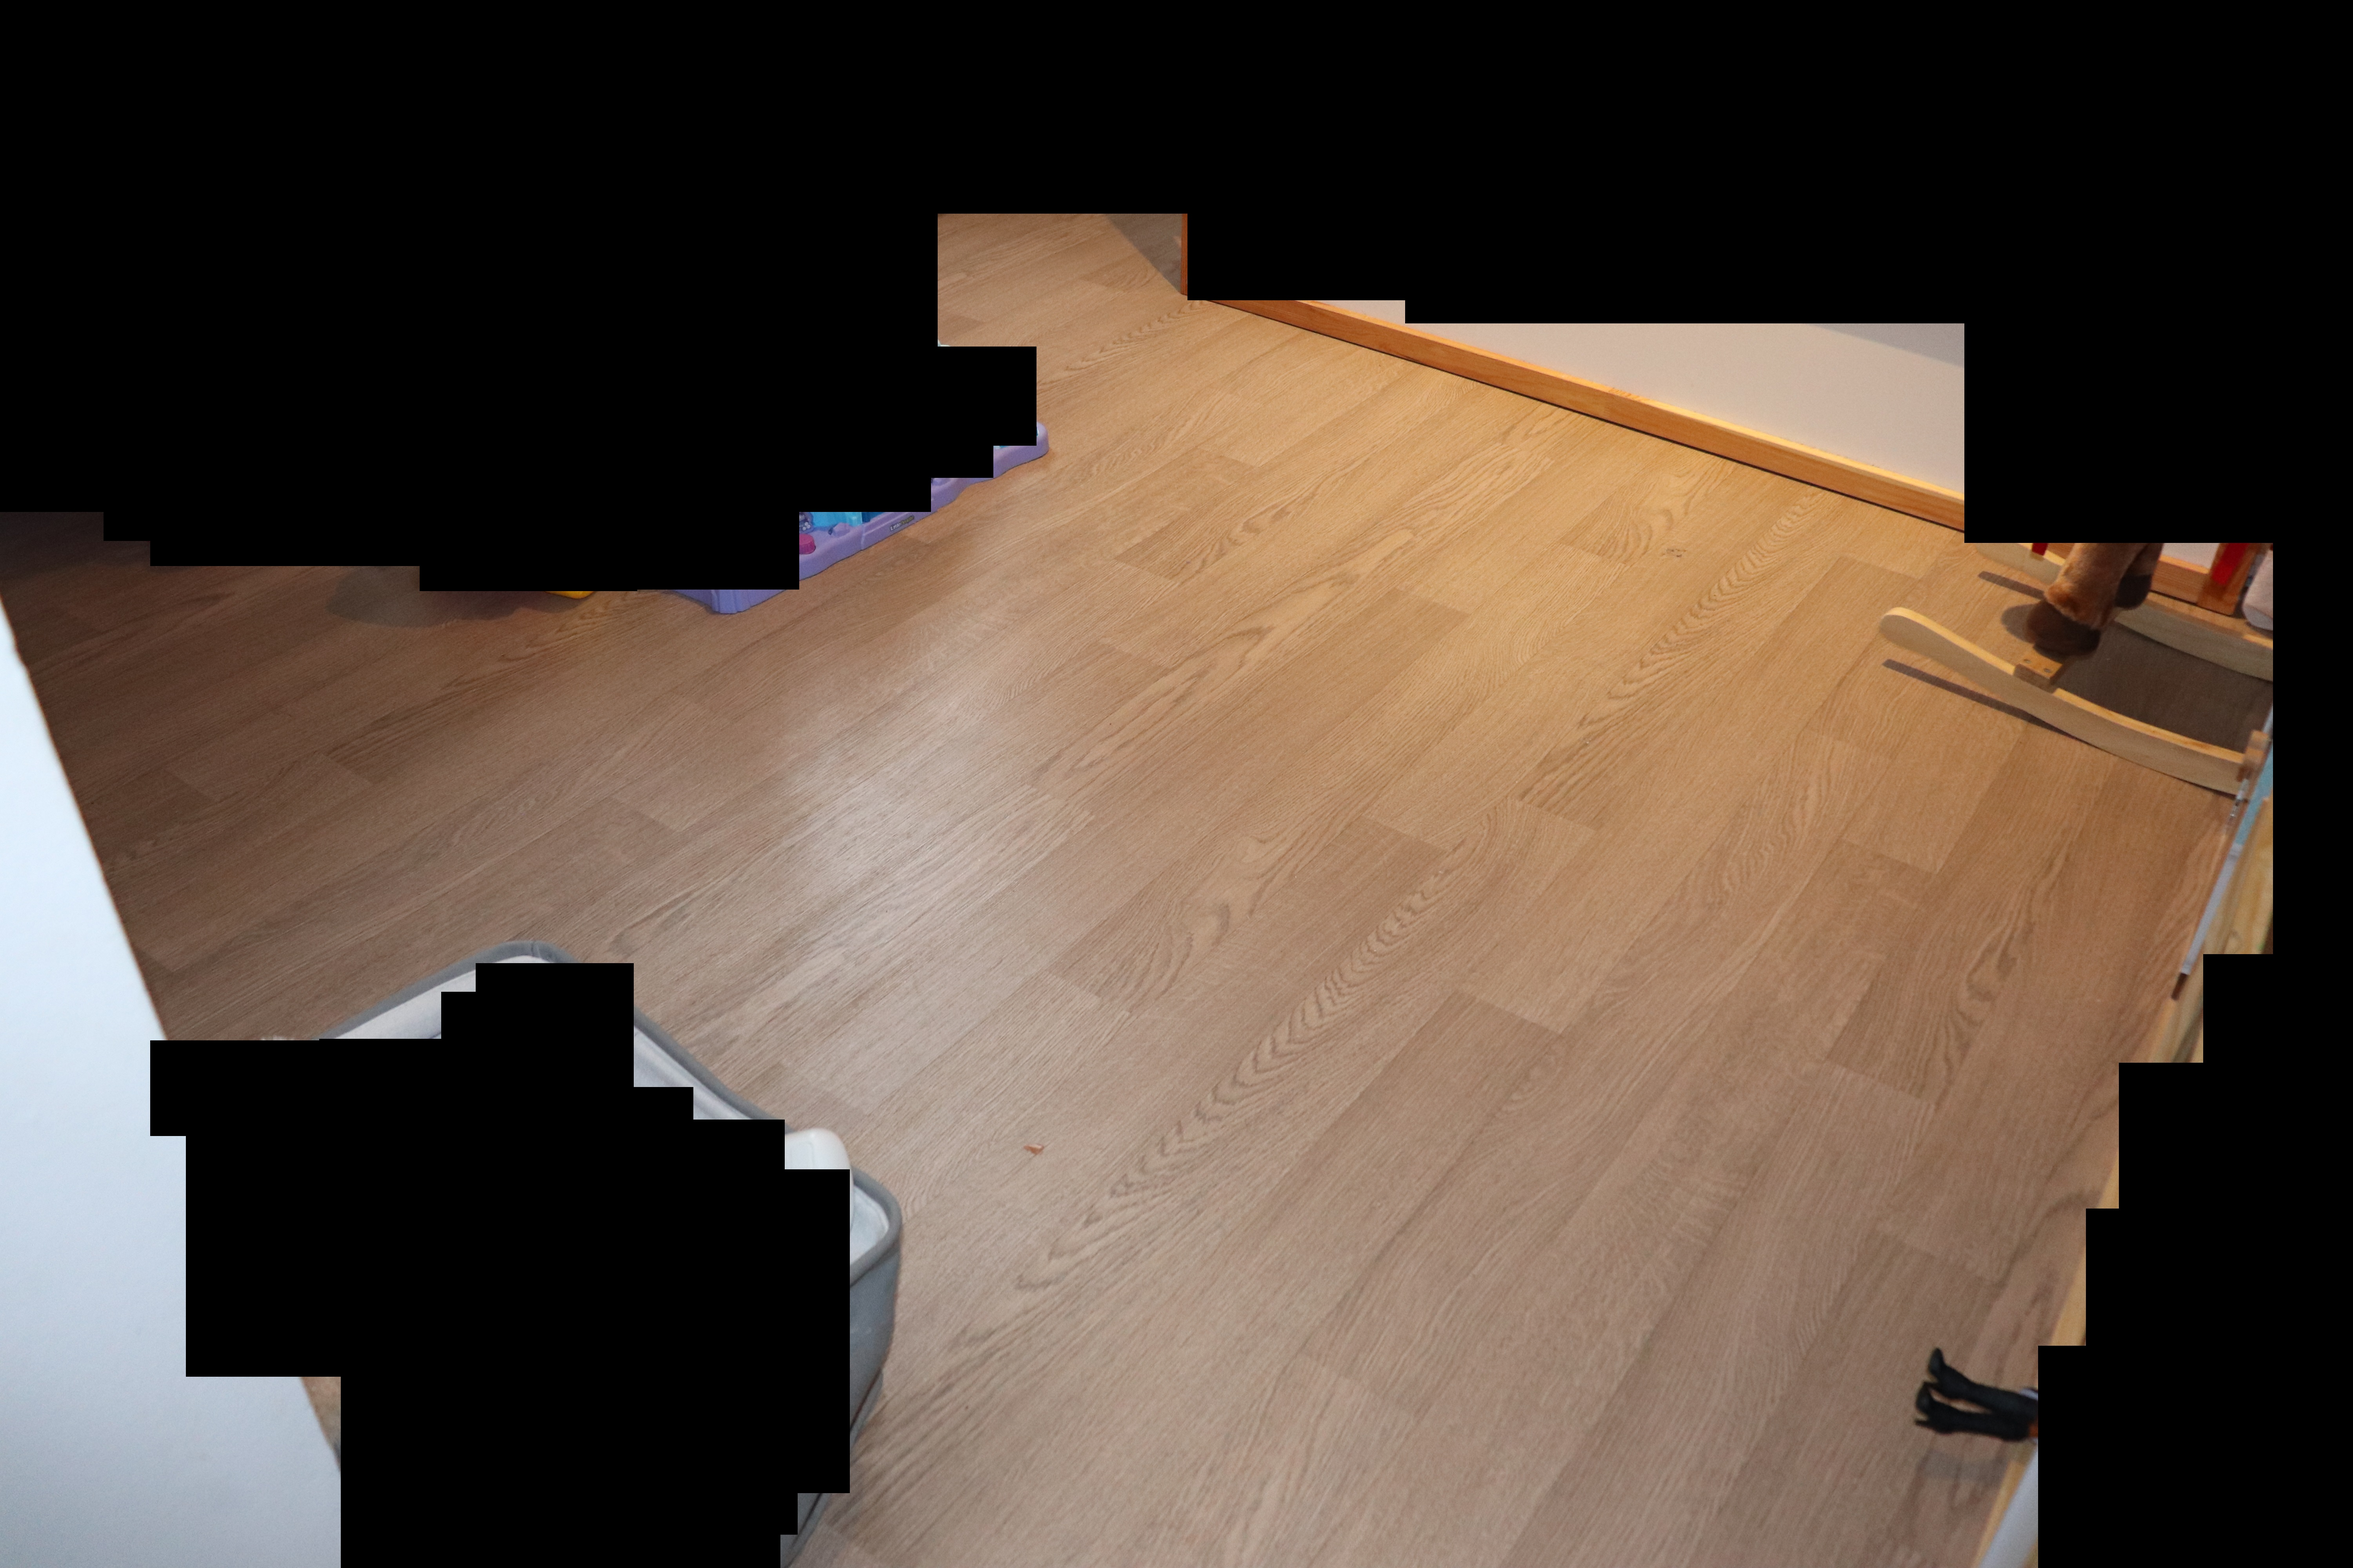
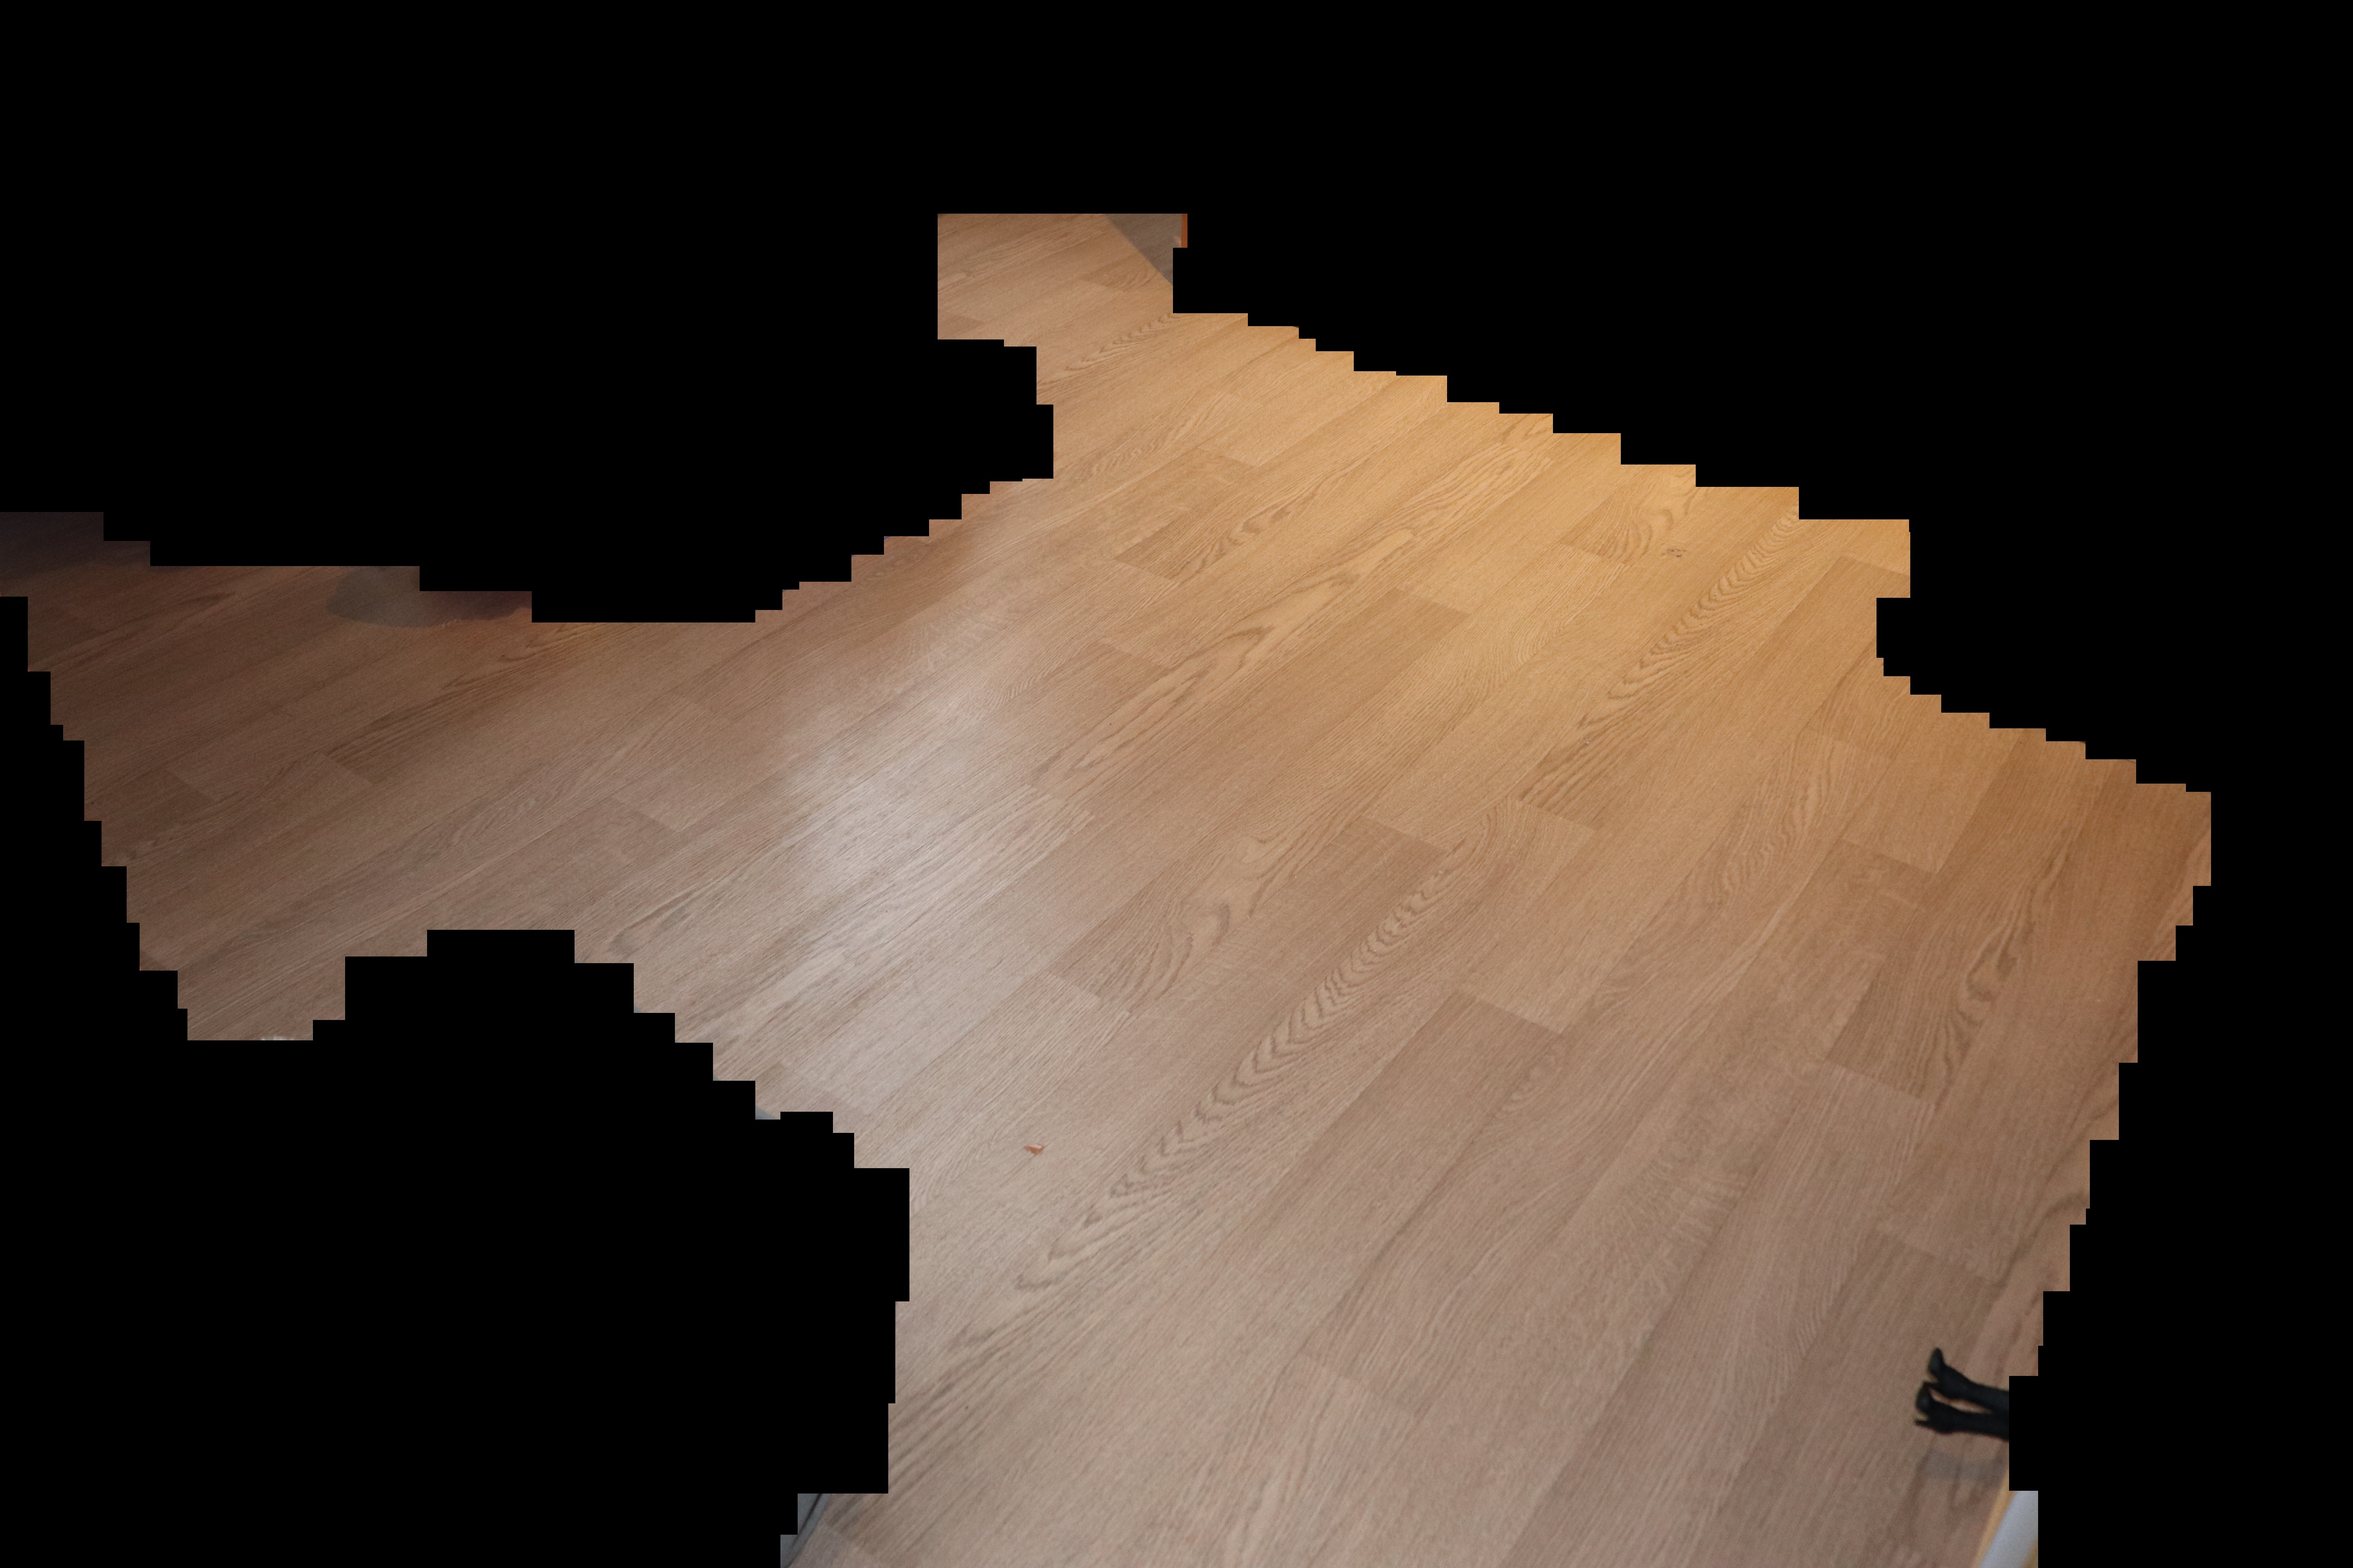
Reworked whole image processing - works well

diff --git a/TP1.py b/TP1.py
@@ -61,7 +61,7 @@ def extr_bb(img_c, image):
     bbs[:, 3] = bbs[:, 1] + bbs[:, 3]
 
     # Filter by size
-    area_th = 5000
+    area_th = 7000
     mask_area = areas > area_th
 
     bbs = bbs[mask_area, :]
@@ -129,8 +129,8 @@ def extr_bb(img_c, image):
 def make_bb(image, reference, mask):
 
     # Image to grayscale
-    img = cv2.cvtColor(image, cv2.COLOR_BGR2GRAY) * mask
-    ref = cv2.cvtColor(reference, cv2.COLOR_BGR2GRAY) * mask
+    img = cv2.cvtColor(image, cv2.COLOR_BGR2GRAY)
+    ref = cv2.cvtColor(reference, cv2.COLOR_BGR2GRAY)
 
     # Find contours
     kernel = np.ones((100, 100), np.float32) / 10000
@@ -138,231 +138,24 @@ def make_bb(image, reference, mask):
     ref_c = cv2.absdiff(ref, cv2.filter2D(ref, -1, kernel))
 
     # Calculate diff
-    diff_c = cv2.absdiff(img_c, ref_c)
+    diff_c = cv2.absdiff(img_c, ref_c) * mask
 
     # Threshold
-    _, thr_c = cv2.threshold(diff_c, 0, 255, cv2.THRESH_BINARY + cv2.THRESH_OTSU)
-
-    return diff_c, thr_c, extr_bb(diff_c, image)
-
-def make_bb2(image, reference, mask):
-
-    # Get grayscale
-    img = cv2.cvtColor(image, cv2.COLOR_BGR2GRAY)
-    ref = cv2.cvtColor(reference, cv2.COLOR_BGR2GRAY)
-
-    # # Equalise images
-    # img = cv2.equalizeHist(img)
-    
-    # hist1 = cv2.calcHist([img], [0], None, [256], [0, 256])
-    # hist2 = cv2.calcHist([ref], [0], None, [256], [0, 256])
-
-    # cdf1 = hist1.cumsum()
-    # cdf2 = hist2.cumsum()
-
-    # cdf1_normalized = cdf1 / cdf1.max()
-    # cdf2_normalized = cdf2 / cdf2.max()
-
-    # mapping = np.interp(cdf1_normalized, cdf2_normalized, np.arange(256))
-
-    # equalized_image1 = mapping[img]
-    # img = np.uint8(equalized_image1)
-
-    # Add mask
-    img *= mask
-    ref *= mask
-
-    # Take difference
-    diff_image = cv2.absdiff(img, ref)
-
-    # Extract important areas
-    #   Get threshold
-    obj_map = diff_image
-    _, obj_map = cv2.threshold(obj_map, 0, 1, cv2.THRESH_BINARY + cv2.THRESH_OTSU)
-
-    #   Keep only important areas
-    obj_image = diff_image * obj_map
-
-
-    # Extract polution
-    #   Get polution map
-    polution_map = obj_image
-
-    kernel = np.ones((100, 100), np.float32) / 10000
-    polution_map = cv2.filter2D(polution_map, -1, kernel)
-
-    _, polution_map = cv2.threshold(polution_map, 0, 1, cv2.THRESH_BINARY + cv2.THRESH_OTSU)
-
-
-
-    # Get grayscale
-    img = cv2.cvtColor(image, cv2.COLOR_BGR2GRAY) * polution_map
-    ref = cv2.cvtColor(reference, cv2.COLOR_BGR2GRAY) * polution_map
-
-    # Equalise images
-    img = cv2.equalizeHist(img)
-    
-    hist1 = cv2.calcHist([img], [0], None, [256], [0, 256])
-    hist2 = cv2.calcHist([ref], [0], None, [256], [0, 256])
-
-    cdf1 = hist1.cumsum()
-    cdf2 = hist2.cumsum()
-
-    cdf1_normalized = cdf1 / cdf1.max()
-    cdf2_normalized = cdf2 / cdf2.max()
-
-    mapping = np.interp(cdf1_normalized, cdf2_normalized, np.arange(256))
-
-    equalized_image1 = mapping[img]
-    img = np.uint8(equalized_image1)
-
-    # Add mask
-    img *= mask
-    ref *= mask
-
-    # Take difference
-    diff_image2 = cv2.absdiff(img, ref)
-
-    int_img = diff_image2 * polution_map
-    real_min = np.min(int_img[int_img > 0])
-    int_img[int_img < 1] = real_min
-
-    _, th2 = cv2.threshold(int_img, 0, 255, cv2.THRESH_BINARY + cv2.THRESH_OTSU)
-
-    return diff_image * polution_map, polution_map * 255, th2
-
-    # Get polution
-    polution = diff_image
-    _, polution = cv2.threshold(polution, 110, np.max(polution), cv2.THRESH_BINARY)
-
-    polution = cv2.absdiff(diff_image, polution)
-
-    kernel = np.ones((100, 100), np.float32) / 10000
-    polution = cv2.filter2D(polution, -1, kernel)
-
-    #   Remove low value noise
-    # _, pol_mask = cv2.threshold(polution, 0, 1, cv2.THRESH_BINARY + cv2.THRESH_OTSU)
-    # polution = polution * pol_mask
-
-    polution = np.max(polution) - polution
-    pol_mask = polution / np.max(polution)
-
-    # Remove polution
-    thr_img = (diff_image * pol_mask).astype(np.uint8)
-    
-    # Threshold image
-    _, thr_img = cv2.threshold(thr_img, 0, 255, cv2.THRESH_BINARY + cv2.THRESH_OTSU)
+    thr_c = diff_c
+    _, thr_c = cv2.threshold(thr_c, 0, 255, cv2.THRESH_BINARY + cv2.THRESH_OTSU)
 
     # Morthology
-    mortho_img = thr_img
+    mortho_c = thr_c
+    kernel = np.ones((4, 4),np.uint8) / 16
+    mortho_c = cv2.erode(mortho_c, kernel, iterations=2)
 
-    #   Remove granularity
-    # kernel = np.ones((3, 3),np.uint8) / 9
-    # mortho_img = cv2.erode(mortho_img, kernel, iterations=10)
-    # mortho_img = cv2.dilate(mortho_img, kernel, iterations=10)
+    kernel = np.ones((30, 30),np.uint8) / 900
+    mortho_c = cv2.dilate(mortho_c, kernel, iterations=2)
 
-
-    #   Remove small features
-    # kernel = np.ones((10, 10),np.uint8) / 100
-    # mortho_img = cv2.erode(mortho_img, kernel, iterations=1)
-    # mortho_img = cv2.dilate(mortho_img, kernel, iterations=2)
-
-    return diff_image, polution, thr_img
-
-    # Find contours in the thresholded image
-    contours, _ = cv2.findContours(mortho_img, cv2.RETR_EXTERNAL, cv2.CHAIN_APPROX_SIMPLE)
+    return diff_c, mortho_c, extr_bb(mortho_c, image)
 
 
-
-    # Make bounding boxes
-    bbs = [[*cv2.boundingRect(contour)] for contour in contours]
-
-    # Get area and of bounding boxes
-    areas = [bb[2] * bb[3] for bb in bbs]
-
-    # Numpy arrays for ease
-    bbs = np.array(bbs)
-    areas = np.array(areas)
-    
-    # Check if bbs
-    if len(bbs.shape) < 2:
-        return diff_image, thr_img, image
-
-    # Switch to x, y, xp, yp
-    bbs[:, 2] = bbs[:, 0] + bbs[:, 2]
-    bbs[:, 3] = bbs[:, 1] + bbs[:, 3]
-
-    # Filter by size
-    area_th = 5000
-    mask_area = areas > area_th
-
-    bbs = bbs[mask_area, :]
-    areas = areas[mask_area]
-
-    # Combine by overlap
-    def combine_bbs(sim_bbs):
-
-        x = sim_bbs[:, 0].min()
-        y = sim_bbs[:, 1].min()
-        xp = sim_bbs[:, 2].max()
-        yp = sim_bbs[:, 3].max()
-
-        return [x, y, xp, yp]
-
-    def overlap(a, b):
-
-        intersection = max(0, min(a[2], b[2]) - max(a[0], b[0])) * max(0, min(a[3], b[3]) - max(a[1], b[1]))
-
-        area_a = (a[2] - a[0]) * (a[3] - a[1])
-        area_b = (b[2] - b[0]) * (b[3] - b[1])
-
-        return intersection / min(area_a, area_b)
-
-
-    def get_all_overlap(bb, others):
-
-        combine = []
-        exclude = []
-        for b in others:
-            
-            if overlap(bb, b) > 0.1:
-                combine.append(b)
-            else:
-                exclude.append(b)
-        
-        return combine, exclude
-    
-    bbs = bbs.tolist()
-    clean_run = False
-    while not clean_run:
-        clean_run = True
-        new_bbs = []
-        while len(bbs) > 0:
-
-            bb = bbs.pop(0)
-            combine, bbs = get_all_overlap(bb, bbs)
-
-            if len(combine) > 0:
-                clean_run = False
-
-            combine.append(bb)
-            new = combine_bbs(np.array(combine))
-            new_bbs.append(new)
-        
-        bbs = new_bbs
-
-
-
-    # Iterate through the detected contours and draw bounding boxes
-    for bb in bbs:
-        x, y, xp, yp = bb
-        cv2.rectangle(image, (x, y), (xp, yp), (0, 255, 0), 5)
-
-    return diff_image, mortho_img, image
-
-
-mkbb = make_bb(load_other_images(folders[0])[5], load_reference_image(folders[0]), load_mask(folders[0])[:, :, 0])
-
+mkbb = make_bb(load_other_images(folders[0])[0], load_reference_image(folders[0]), load_mask(folders[0])[:, :, 0])
 
 
 cv2.imshow('make bb 1', cv2.resize(mkbb[0], (780, 540),
